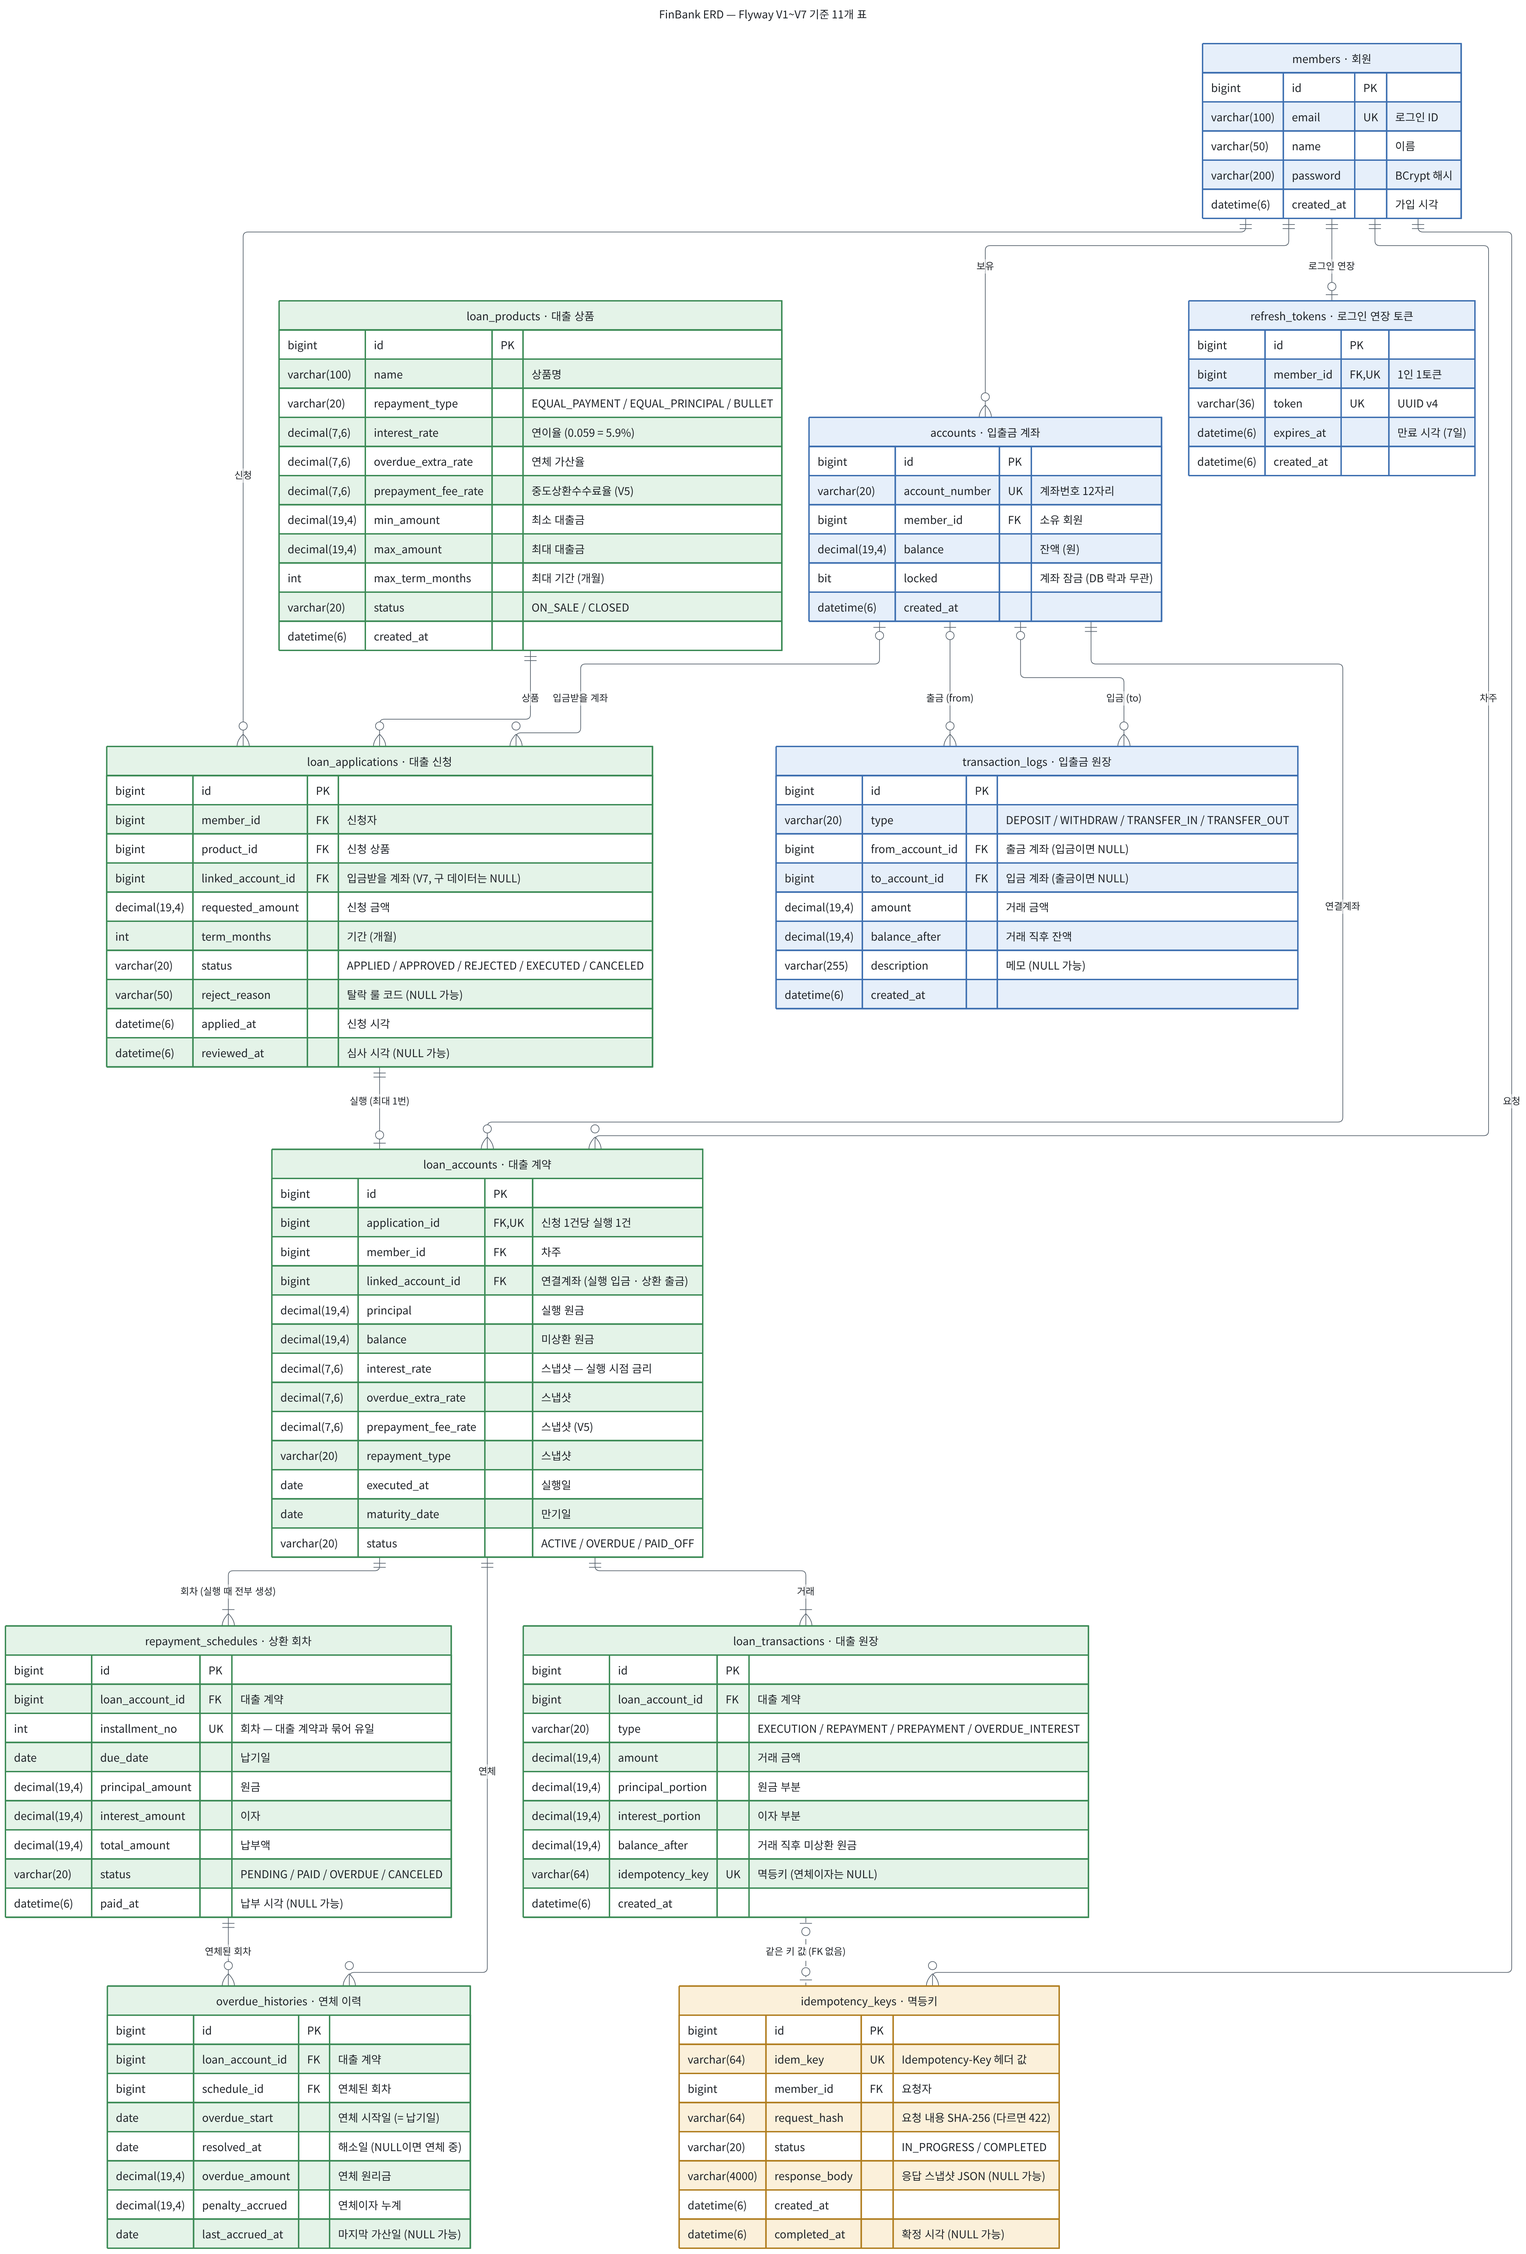
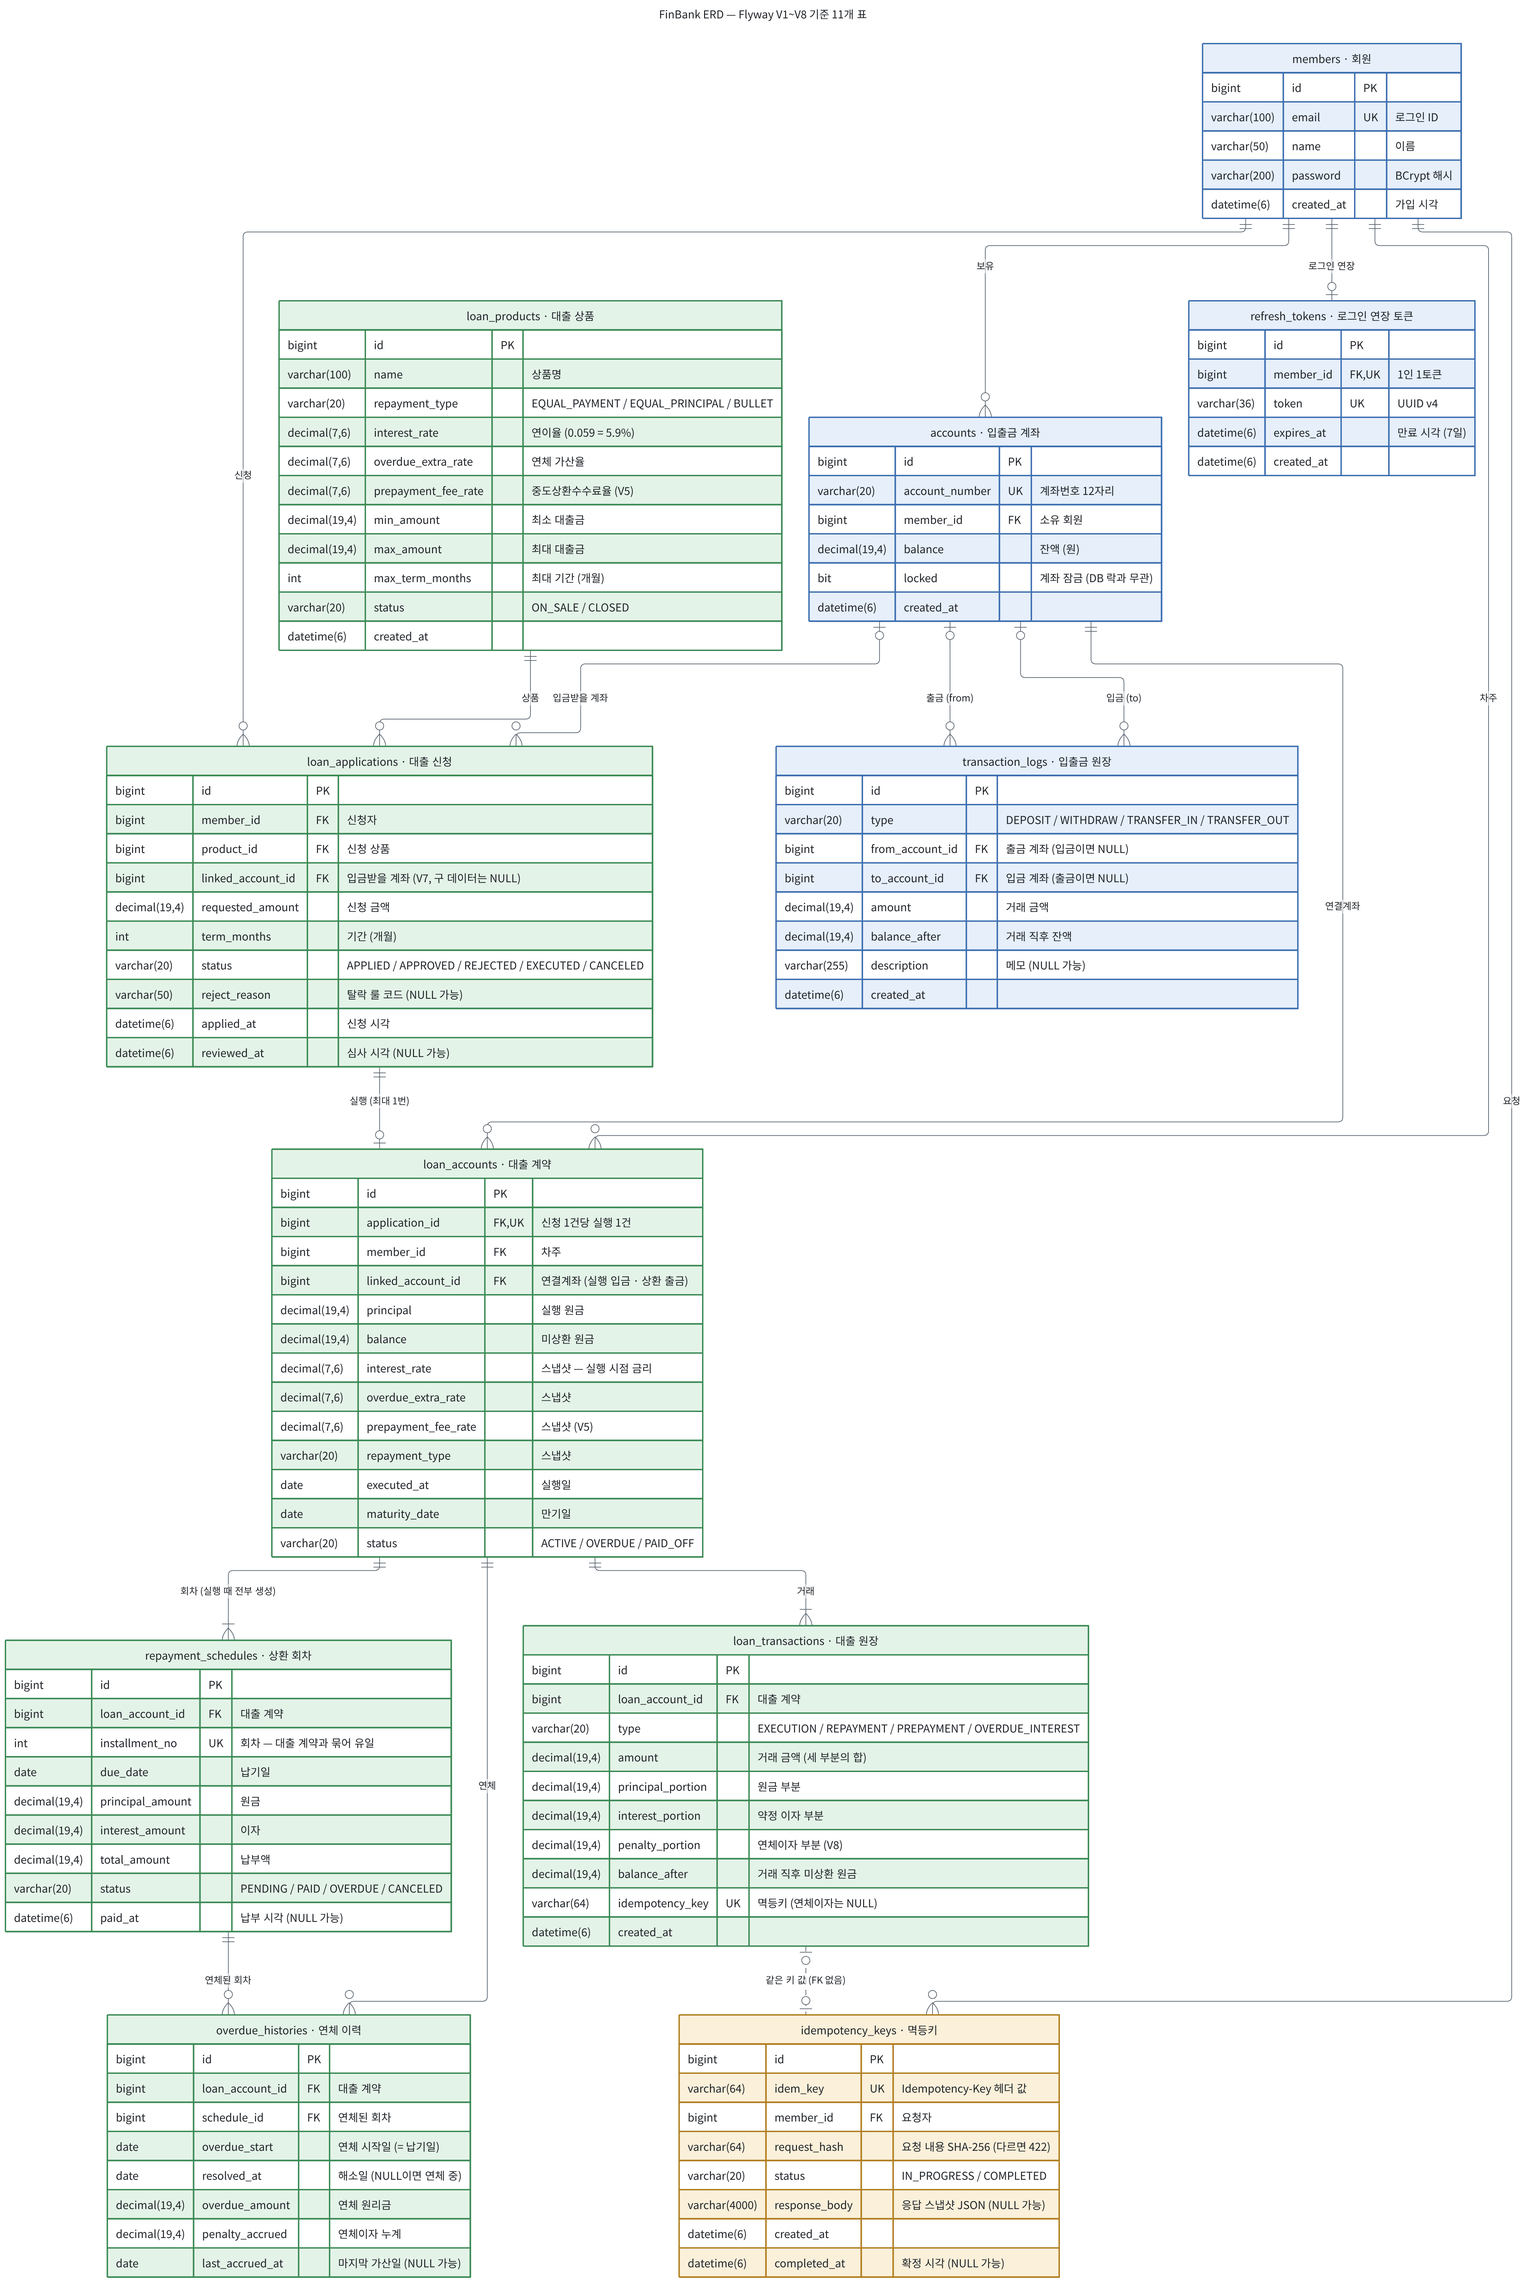
feat: 대출 원장에 연체이자 칸(penalty_portion) 추가 — V8
리뷰 지적: 연체이자가 원장에 두 번 잡혔다. 가산 배치는 OVERDUE_INTEREST
행의 이자 부분에, 상환은 REPAYMENT 행의 이자 부분(약정 이자 + 연체이자)에
같은 연체이자를 적어서, 원장의 이자를 더하면 쌓일 때 한 번, 받을 때 한 번
잡혔다. 상환 한 줄만 봐서는 약정 이자와 연체이자를 나눌 수도 없었다.

- V8: loan_transactions.penalty_portion 추가. 기존 OVERDUE_INTEREST 행은
  이자 부분의 금액을 연체이자 칸으로 옮긴다. 연체이자가 섞인 기존 REPAYMENT
  행은 회차를 가리키는 칸이 없어 안전하게 나눌 수 없으므로 그대로 둔다.
- 이자 부분에는 약정 이자만(중도상환이면 경과이자 + 수수료), 연체이자는
  연체이자 부분에만 적는다. 금액은 세 부분의 합으로 생성할 때 계산한다.
- 규칙: OVERDUE_INTEREST는 발생, REPAYMENT의 연체이자 부분은 수납이다.
  같은 돈이므로 둘을 더하지 않는다 (엔티티·유형 Javadoc, 마이그레이션 주석).
- 테스트: 연체 회차 상환 원장의 칸 분리, 정상 상환의 연체이자 0, 가산 배치
  원장이 연체이자 칸에만 적히는지 확인 (테스트 수는 그대로).
- ERD: penalty_portion 추가, 제목 V1~V8, 두 그림 다시 렌더링.

Claude-Session: https://claude.ai/code/session_011gQazySLxUS1kaV3un6m6H

Changed region(s): [[0.0, 0.1245, 0.8746, 0.9964], [0.7809, 0.0311, 0.9683, 0.218]]

diff --git a/finbank-backend/src/main/java/com/finbank/backend/loan/domain/LoanTransaction.java b/finbank-backend/src/main/java/com/finbank/backend/loan/domain/LoanTransaction.java
@@ -18,6 +18,13 @@ import java.time.LocalDateTime;
  *
  * <p>idempotencyKey에 UNIQUE 제약이 있어 같은 키의 거래가 두 번 기록될 수 없다
  * (멱등 처리의 DB 레벨 최종 방어선).</p>
+ *
+ * <p><b>금액 칸</b>: 금액 = 원금 부분 + 이자 부분 + 연체이자 부분 (생성할 때 계산하므로 어긋날 수 없다).
+ * 이자 부분은 약정 이자만 담고(중도상환이면 경과이자 + 수수료), 연체이자는 연체이자 부분에만 적는다.</p>
+ *
+ * <p><b>발생과 수납을 더하지 않는다</b>: OVERDUE_INTEREST는 연체이자가 <i>쌓인</i> 기록(발생)이고,
+ * REPAYMENT의 연체이자 부분은 그 돈을 <i>받은</i> 기록(수납)이다. 같은 돈을 두 번 적은 것이므로
+ * 연체이자 합계는 목적에 맞는 한쪽만 더한다 — 받은 금액은 REPAYMENT, 쌓인 금액은 OVERDUE_INTEREST.</p>
  */
 @Entity
 @Table(name = "loan_transactions")
@@ -48,9 +55,13 @@ public class LoanTransaction {
     @Column(nullable = false, precision = 19, scale = 4)
     private BigDecimal principalPortion;
 
-    /** 이자 부분 */
+    /** 이자 부분 — 약정 이자 (중도상환이면 경과이자 + 수수료). 연체이자는 들어가지 않는다 */
     @Column(nullable = false, precision = 19, scale = 4)
     private BigDecimal interestPortion;
+
+    /** 연체이자 부분 — OVERDUE_INTEREST면 쌓인 금액(발생), REPAYMENT면 받은 금액(수납) */
+    @Column(nullable = false, precision = 19, scale = 4)
+    private BigDecimal penaltyPortion;
 
     /** 거래 직후 미상환 원금 */
     @Column(nullable = false, precision = 19, scale = 4)
@@ -66,42 +77,44 @@ public class LoanTransaction {
     /** 대출 실행: 원금 전액이 나가고, 잔액은 원금과 같다. */
     public static LoanTransaction execution(LoanAccount loan, String idempotencyKey) {
         return create(loan, LoanTransactionType.EXECUTION,
-                loan.getPrincipal(), loan.getPrincipal(), BigDecimal.ZERO,
+                loan.getPrincipal(), BigDecimal.ZERO, BigDecimal.ZERO,
                 loan.getBalance(), idempotencyKey);
     }
 
-    /** 회차 상환: 원금/이자 분리 기록. 연체 회차면 연체이자를 이자 부분에 합산한다 (중도상환 수수료와 같은 방식). */
+    /** 회차 상환: 원금·이자·연체이자를 칸마다 나눠 적는다. 금액 = 계좌 출금액 (연체가 아니면 연체이자 0). */
     public static LoanTransaction repayment(LoanAccount loan, BigDecimal principalPortion,
-                                            BigDecimal interestPortion, String idempotencyKey) {
+                                            BigDecimal interestPortion, BigDecimal penaltyPortion,
+                                            String idempotencyKey) {
         return create(loan, LoanTransactionType.REPAYMENT,
-                principalPortion.add(interestPortion), principalPortion, interestPortion,
+                principalPortion, interestPortion, penaltyPortion,
                 loan.getBalance(), idempotencyKey);
     }
 
-    /** 전액 중도상환: 잔여원금 + 경과이자 + 수수료(이자 부분에 합산 기록). */
+    /** 전액 중도상환: 잔여원금 + 경과이자 + 수수료(이자 부분에 합산 기록). 정상 대출만 가능해 연체이자는 없다. */
     public static LoanTransaction prepayment(LoanAccount loan, BigDecimal principalPortion,
                                              BigDecimal interestAndFeePortion, String idempotencyKey) {
         return create(loan, LoanTransactionType.PREPAYMENT,
-                principalPortion.add(interestAndFeePortion), principalPortion, interestAndFeePortion,
+                principalPortion, interestAndFeePortion, BigDecimal.ZERO,
                 loan.getBalance(), idempotencyKey);
     }
 
-    /** 연체이자 가산 (배치): 원금 변동 없음. */
+    /** 연체이자 가산 (배치): 쌓인 연체이자를 연체이자 부분에 적는다(발생). 원금 변동 없음. */
     public static LoanTransaction overdueInterest(LoanAccount loan, BigDecimal penalty) {
         return create(loan, LoanTransactionType.OVERDUE_INTEREST,
-                penalty, BigDecimal.ZERO, penalty, loan.getBalance(), null);
+                BigDecimal.ZERO, BigDecimal.ZERO, penalty, loan.getBalance(), null);
     }
 
     private static LoanTransaction create(LoanAccount loan, LoanTransactionType type,
-                                          BigDecimal amount, BigDecimal principalPortion,
-                                          BigDecimal interestPortion, BigDecimal balanceAfter,
+                                          BigDecimal principalPortion, BigDecimal interestPortion,
+                                          BigDecimal penaltyPortion, BigDecimal balanceAfter,
                                           String idempotencyKey) {
         LoanTransaction tx = new LoanTransaction();
         tx.loanAccount = loan;
         tx.type = type;
-        tx.amount = amount;
+        tx.amount = principalPortion.add(interestPortion).add(penaltyPortion);
         tx.principalPortion = principalPortion;
         tx.interestPortion = interestPortion;
+        tx.penaltyPortion = penaltyPortion;
         tx.balanceAfter = balanceAfter;
         tx.idempotencyKey = idempotencyKey;
         return tx;

diff --git a/finbank-backend/src/test/java/com/finbank/backend/loan/service/LoanRepaymentServiceTest.java b/finbank-backend/src/test/java/com/finbank/backend/loan/service/LoanRepaymentServiceTest.java
@@ -149,10 +149,15 @@ class LoanRepaymentServiceTest {
         // 대출 잔액 = 원금 - 회차 원금
         assertThat(res.loanBalanceAfter()).isEqualByComparingTo(LOAN_AMOUNT.subtract(first.principalAmount()));
 
-        // 스케줄은 PAID, 원장에는 상환 1건
+        // 스케줄은 PAID, 원장에는 상환 1건 — 연체가 아니므로 연체이자 부분은 0
         assertThat(loanQueryService.getSchedules(loan.loanId()).get(0).status()).isEqualTo("PAID");
         assertThat(loanTransactionRepository.findAll().stream()
-                .filter(tx -> tx.getType() == LoanTransactionType.REPAYMENT).toList()).hasSize(1);
+                .filter(tx -> tx.getType() == LoanTransactionType.REPAYMENT).toList())
+                .singleElement()
+                .satisfies(tx -> {
+                    assertThat(tx.getInterestPortion()).isEqualByComparingTo(first.interestAmount());
+                    assertThat(tx.getPenaltyPortion()).isEqualByComparingTo(BigDecimal.ZERO);
+                });
     }
 
     @Test
@@ -244,13 +249,15 @@ class LoanRepaymentServiceTest {
         assertThat(res.totalPaid()).isEqualByComparingTo(first.totalAmount().add(penalty));
         assertThat(accountBalance()).isEqualByComparingTo(balanceBefore.subtract(res.totalPaid()));
 
-        // 원장: 상환 한 건 = 한 줄, 금액 = 계좌 출금액 (연체이자는 이자 부분에 합산)
+        // 원장: 상환 한 건 = 한 줄, 금액 = 계좌 출금액. 약정 이자와 연체이자는 칸을 나눠 적는다
         List<LoanTransaction> repayments = loanTransactionRepository.findAll().stream()
                 .filter(tx -> tx.getType() == LoanTransactionType.REPAYMENT).toList();
         assertThat(repayments).hasSize(1);
-        assertThat(repayments.get(0).getAmount()).isEqualByComparingTo(res.totalPaid());
-        assertThat(repayments.get(0).getInterestPortion())
-                .isEqualByComparingTo(first.interestAmount().add(penalty));
+        LoanTransaction ledger = repayments.get(0);
+        assertThat(ledger.getAmount()).isEqualByComparingTo(res.totalPaid());
+        assertThat(ledger.getPrincipalPortion()).isEqualByComparingTo(first.principalAmount());
+        assertThat(ledger.getInterestPortion()).isEqualByComparingTo(first.interestAmount());
+        assertThat(ledger.getPenaltyPortion()).isEqualByComparingTo(penalty);
 
         // 연체가 정리된다 — 이력이 닫혀 가산이 멈추고, 남은 연체 회차가 없으니 대출은 정상으로
         assertThat(overdueHistoryRepository.findById(history.getId()).orElseThrow().isResolved()).isTrue();

diff --git a/finbank-backend/src/main/java/com/finbank/backend/loan/domain/LoanTransactionType.java b/finbank-backend/src/main/java/com/finbank/backend/loan/domain/LoanTransactionType.java
@@ -1,13 +1,18 @@
 package com.finbank.backend.loan.domain;
 
-/** 대출 거래 유형 */
+/**
+ * 대출 거래 유형.
+ *
+ * <p>OVERDUE_INTEREST는 연체이자의 <b>발생</b>, REPAYMENT의 연체이자 부분은 그 <b>수납</b>이다.
+ * 같은 돈이므로 두 유형의 연체이자를 더하지 않는다 ({@link LoanTransaction} 참고).</p>
+ */
 public enum LoanTransactionType {
     /** 대출 실행 (연결계좌 입금) */
     EXECUTION,
-    /** 회차 상환 (연체 회차면 연체이자 포함) */
+    /** 회차 상환 — 연체 회차면 받은 연체이자를 연체이자 부분에 (수납) */
     REPAYMENT,
-    /** 전액 중도상환 */
+    /** 전액 중도상환 — 경과이자·수수료는 이자 부분에 */
     PREPAYMENT,
-    /** 연체이자 가산 (배치) */
+    /** 연체이자 가산 (배치) — 쌓인 연체이자를 연체이자 부분에 (발생) */
     OVERDUE_INTEREST
 }

diff --git a/finbank-backend/src/main/java/com/finbank/backend/loan/service/LoanRepaymentProcessor.java b/finbank-backend/src/main/java/com/finbank/backend/loan/service/LoanRepaymentProcessor.java
@@ -123,9 +123,10 @@ public class LoanRepaymentProcessor {
         overdue.ifPresent(history -> history.resolve(LocalDate.now()));
         resolveOverdueIfCleared(loan);
 
-        // 원장은 상환 한 건 = 한 줄 = 계좌 출금액. 연체이자는 이자 부분에 합산한다 (중도상환 수수료와 같은 방식)
+        // 원장은 상환 한 건 = 한 줄 = 계좌 출금액. 정상이자와 연체이자는 칸을 나눠 적는다
+        // (가산 배치가 남긴 OVERDUE_INTEREST는 발생, 여기 연체이자 부분은 수납 — 둘을 더하지 않는다)
         loanTransactionRepository.save(
-                LoanTransaction.repayment(loan, principal, interest.add(penalty), idempotencyKey));
+                LoanTransaction.repayment(loan, principal, interest, penalty, idempotencyKey));
 
         RepaymentResponse response = new RepaymentResponse(
                 loan.getId(),

diff --git a/finbank-backend/src/test/java/com/finbank/backend/loan/batch/OverdueInterestAccrualJobTest.java b/finbank-backend/src/test/java/com/finbank/backend/loan/batch/OverdueInterestAccrualJobTest.java
@@ -142,7 +142,12 @@ class OverdueInterestAccrualJobTest {
         OverdueHistory result = reload();
         assertThat(result.getPenaltyAccrued()).isEqualByComparingTo(expectedPenalty(10));
         assertThat(result.getLastAccruedAt()).isEqualTo(OVERDUE_START.plusDays(10));
-        assertThat(penaltyLedger()).hasSize(1);
+        // 원장에는 연체이자 부분에만 적는다 (발생). 약정 이자 칸은 비워 둔다
+        assertThat(penaltyLedger()).singleElement().satisfies(tx -> {
+            assertThat(tx.getPenaltyPortion()).isEqualByComparingTo(expectedPenalty(10));
+            assertThat(tx.getInterestPortion()).isEqualByComparingTo(BigDecimal.ZERO);
+            assertThat(tx.getAmount()).isEqualByComparingTo(tx.getPenaltyPortion());
+        });
     }
 
     @Test
